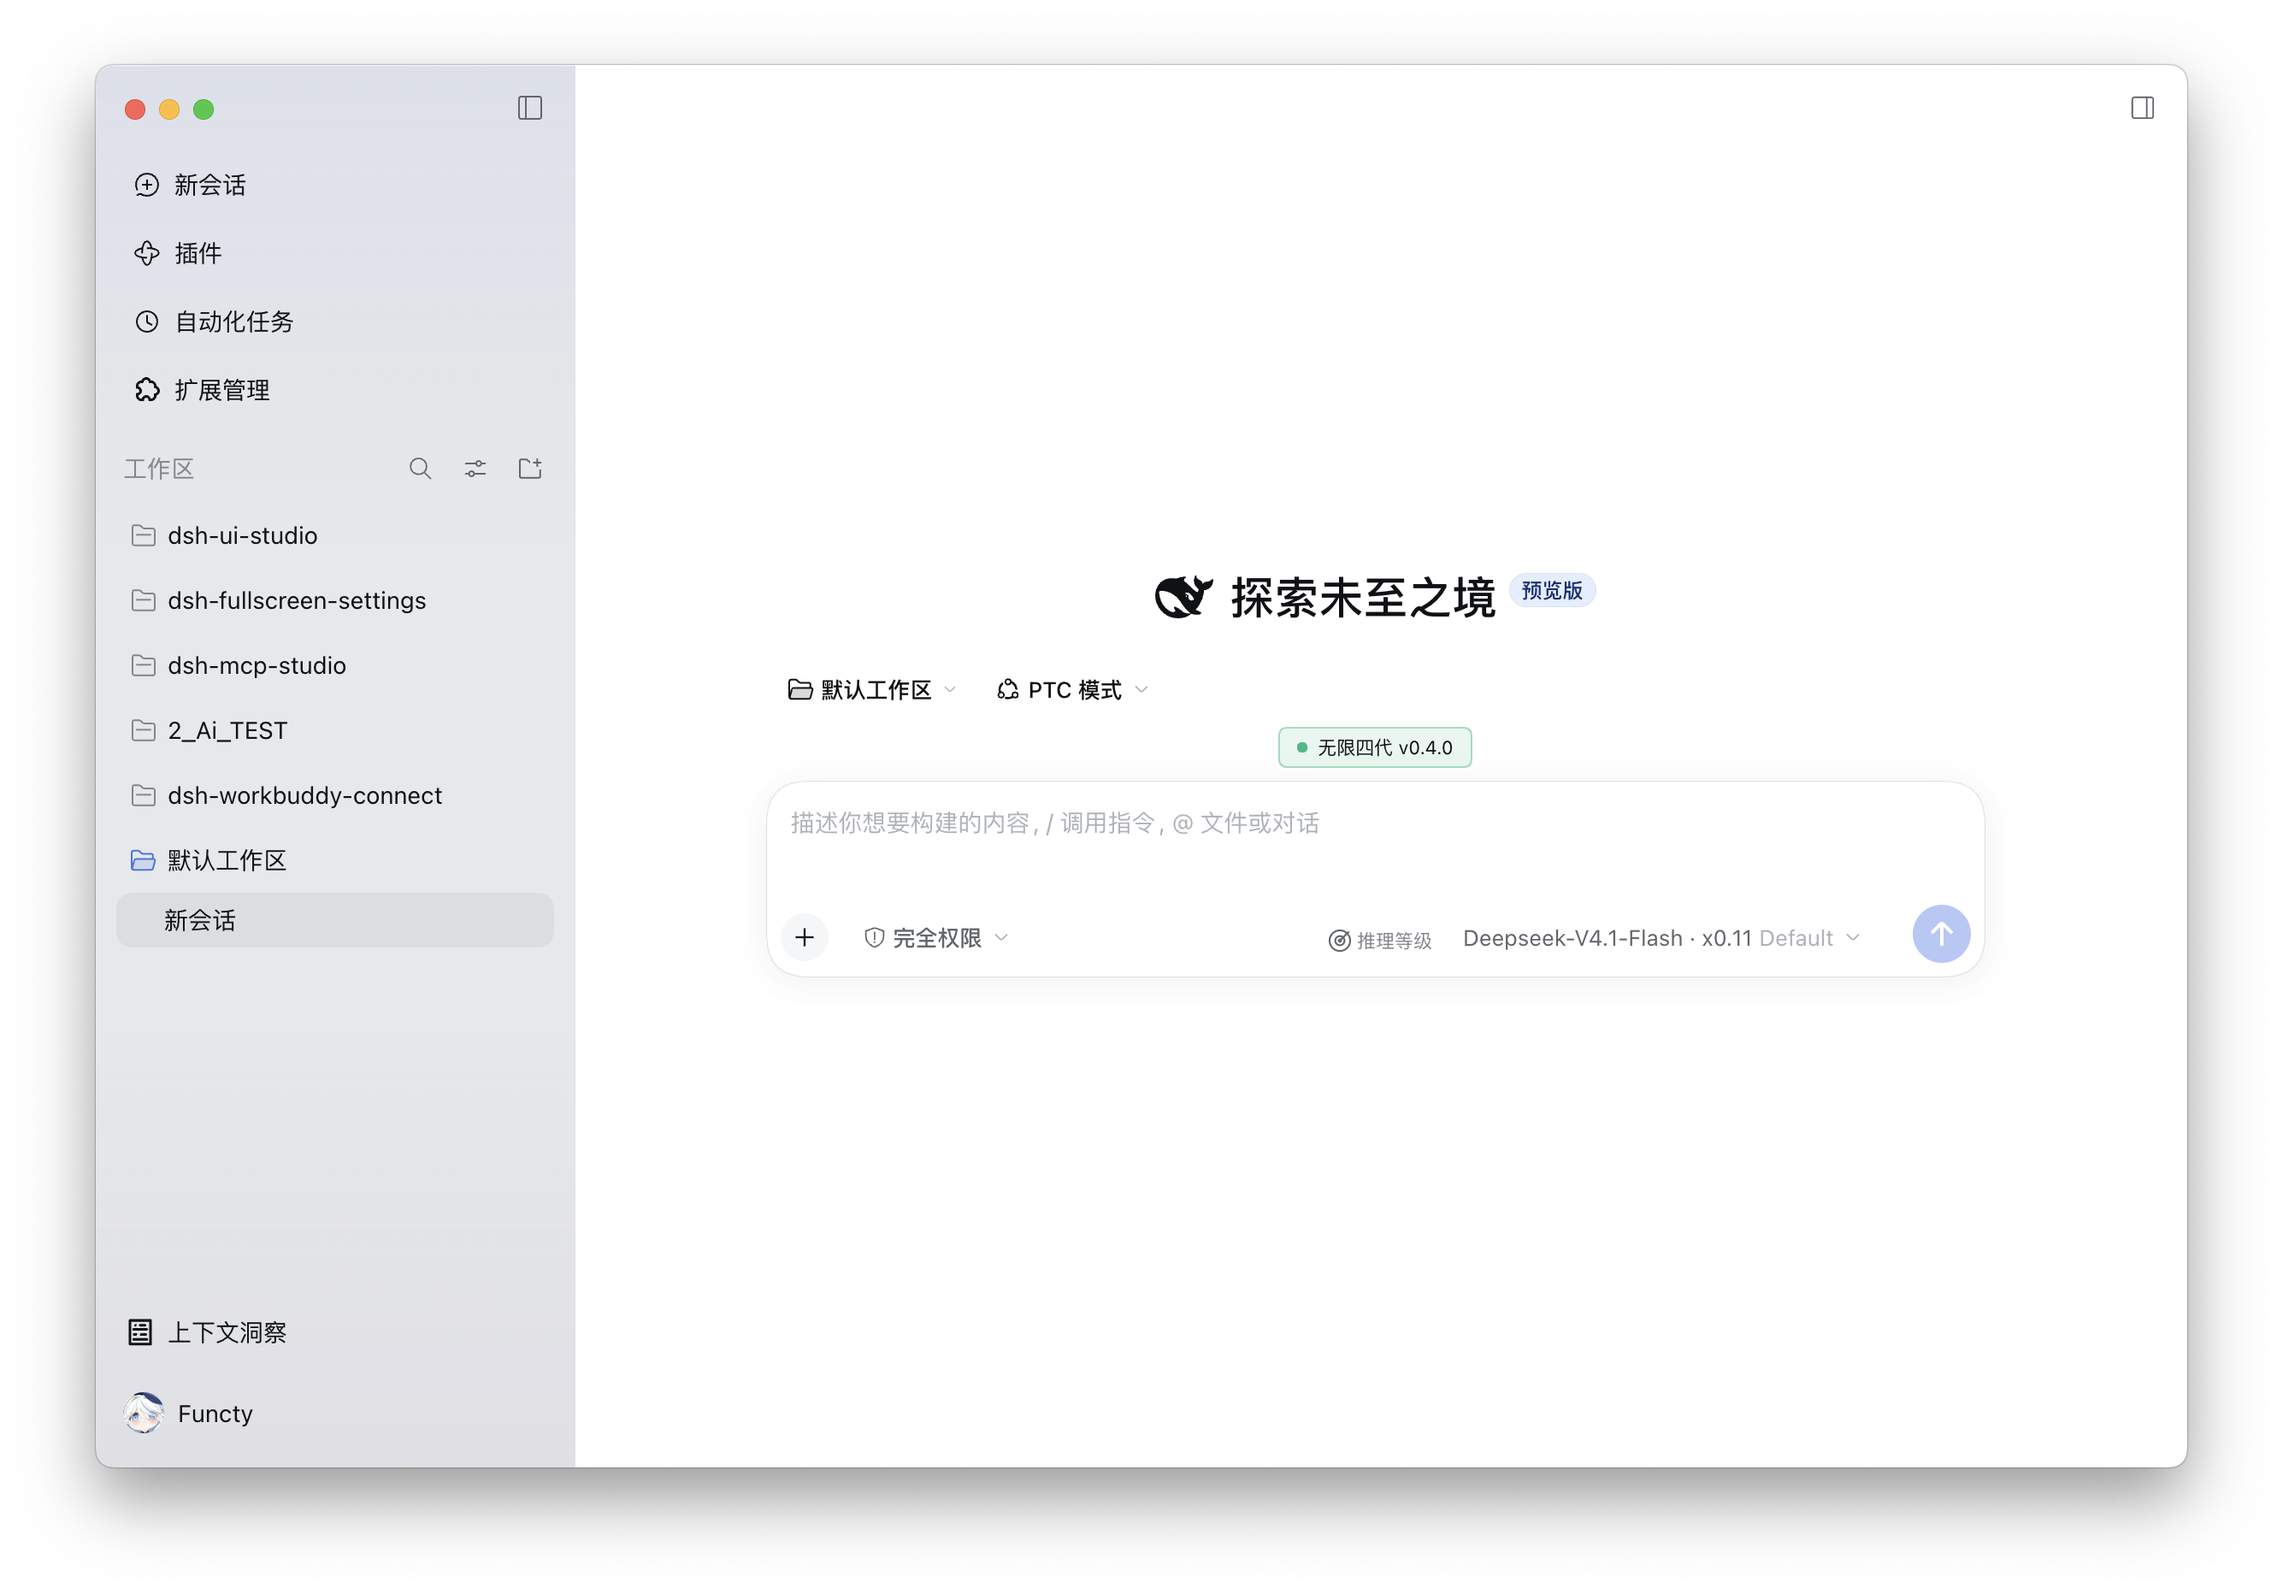
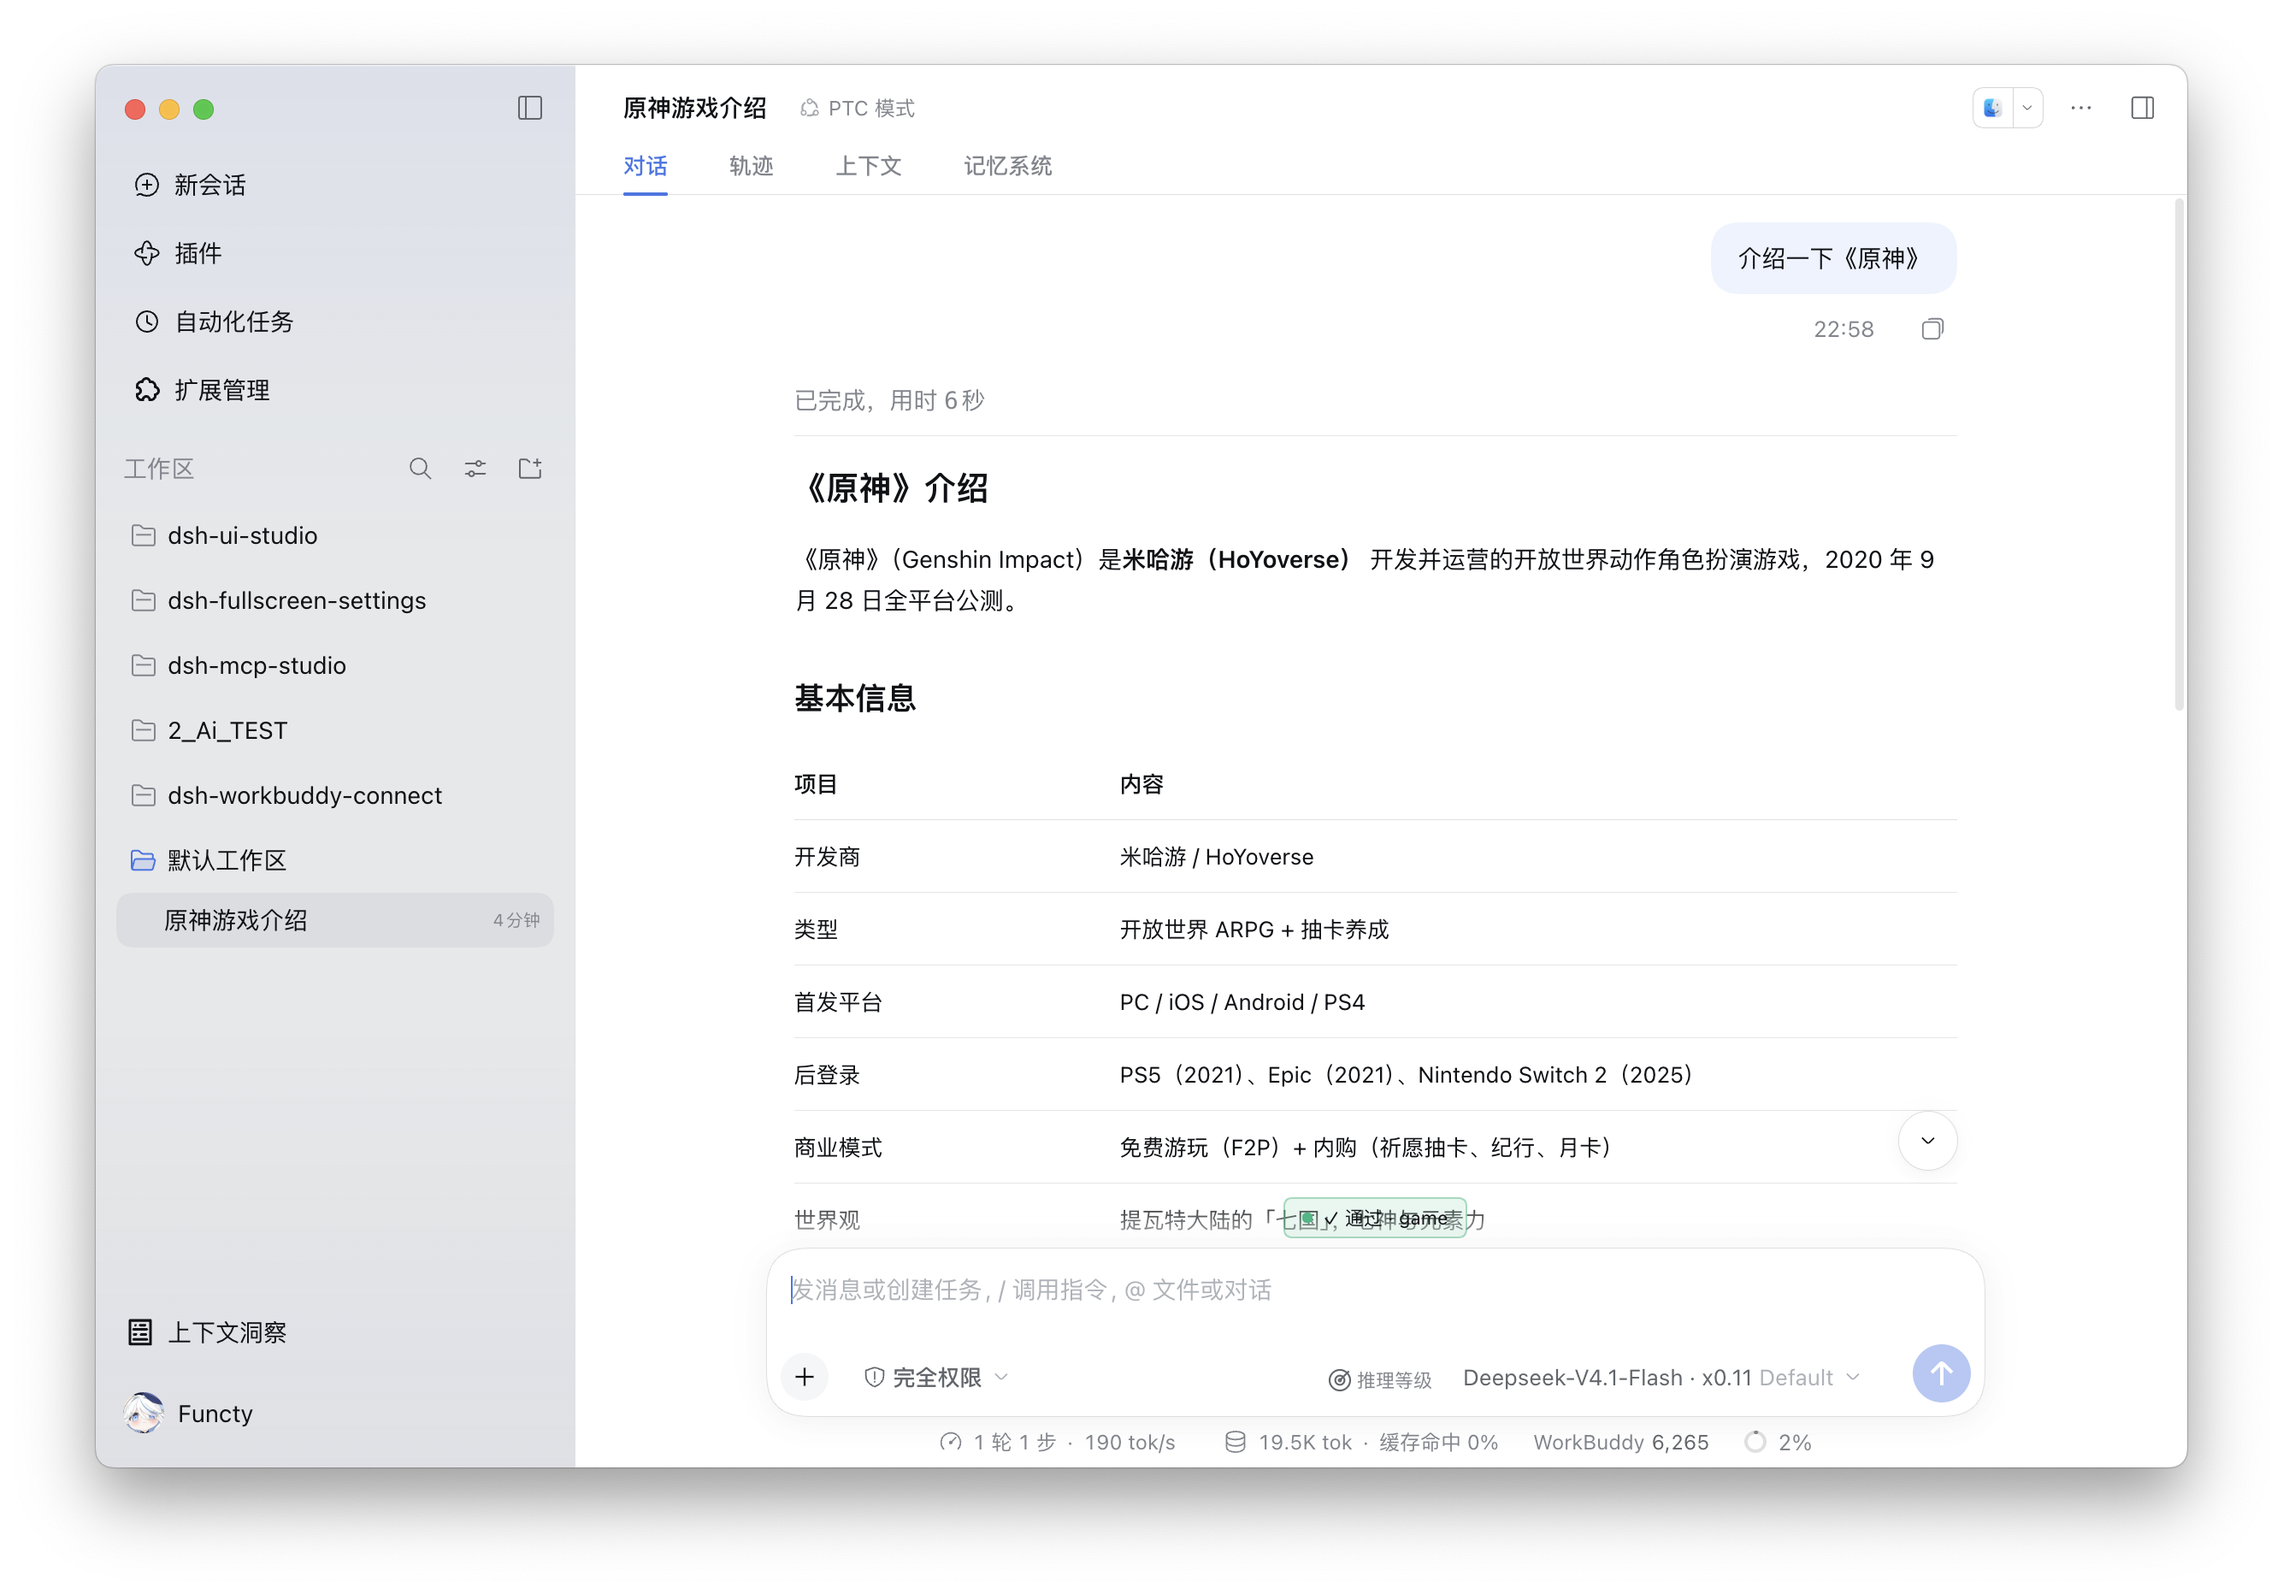
docs: drop TUI from the README and replace the chat screenshot
The plugin is not supported on TUI, so the install commands and the
verified-on list no longer mention it. The first screenshot is the
2026-10-01 chat capture with usage and credit on the status bar.

diff --git a/README.en.md b/README.en.md
@@ -45,9 +45,9 @@ Both trees have: CN/AI groups, image input, reasoning-effort detection, per-acco
 
 ## Screenshots
 
-WorkBuddy models in chat (credit card at the foot of the sidebar):
+WorkBuddy models in chat (rate and reasoning level in the composer, usage and credit on the status bar):
 
-<img src="assets/chat.png" width="1000" alt="Composer on a WorkBuddy model, sidebar credit card at the bottom">
+<img src="assets/chat.png" width="1000" alt="Chat using a WorkBuddy model, with usage and credit on the status bar">
 
 Picker groups WorkBuddy / WorkBuddy AI, with rates and free badges:
 
@@ -101,7 +101,7 @@ github:functy23/dsh-workbuddy-connect-functy
 
 ### From the CLI
 
-Replace `<profile>` with the profile you use (`web` / `desktop` / `dsh-tui`).
+Replace `<profile>` with the profile you use (`web` / `desktop`).
 
 From npm (recommended):
 
@@ -124,12 +124,6 @@ dsh web
 ```sh
 # Desktop (DSH 0.2+ lets the CLI manage the desktop profile)
 dsh plugin --profile desktop add dsh-workbuddy-connect-functy
-```
-
-```sh
-# TUI (terminal UI package 0.10.0-beta.5 or newer; older builds throw `events is not iterable`)
-dsh plugin --profile dsh-tui add dsh-workbuddy-connect-functy
-dsh --profile dsh-tui
 ```
 
 Before DSH 0.2 the CLI refused the `desktop` profile — use the UI path above. A wrapped desktop app (e.g. DSH NEXT) exposes CLI through its bundled `desktop-cli`, which needs `pnpm` on PATH.
@@ -158,7 +152,7 @@ CN by default; add `--provider workbuddy-ai` for the international product. `acc
 
 ## Known limitations
 
-- Verified on macOS Web / Desktop / TUI (DSH `0.1.7-alpha.1` / `0.2.0-rc.1` / `0.2.0-rc.2`, Node 22+). Windows probes Local then Roaming AppData; WSL reads the mounted Windows profile first. If user names differ, set `WORKBUDDY_AUTH_FILE` / `WORKBUDDY_AI_AUTH_FILE`.
+- Verified on macOS Web / Desktop (DSH `0.1.7-alpha.1` / `0.2.0-rc.1` / `0.2.0-rc.2`, Node 22+). Windows probes Local then Roaming AppData; WSL reads the mounted Windows profile first. If user names differ, set `WORKBUDDY_AUTH_FILE` / `WORKBUDDY_AI_AUTH_FILE`.
 - Sidebar display preferences need a host that can write settings; missing fields mean no switch is drawn.
 - The international catalog comes from the app's own interface and can break; the plugin then degrades to the last successful catalog, then the built-in roster.
 - International enterprise billing is unverified; a product with no credential no longer shows a model group.

diff --git a/README.md b/README.md
@@ -45,9 +45,9 @@
 
 ## 展示
 
-对话里直接用 WorkBuddy 模型（侧栏底部有额度卡）：
+对话里直接用 WorkBuddy 模型（输入框显示倍率与推理档位，底栏有用量和额度）：
 
-<img src="assets/chat.png" width="1000" alt="对话输入框选用 WorkBuddy 模型，侧栏底部有额度卡">
+<img src="assets/chat.png" width="1000" alt="对话里使用 WorkBuddy 模型，底栏显示用量与额度">
 
 模型选择器按 WorkBuddy / WorkBuddy AI 分组，带倍率与免费标记：
 
@@ -101,7 +101,7 @@ github:functy23/dsh-workbuddy-connect-functy
 
 ### 从命令行安装
 
-把 `<profile>` 换成实际 profile（`web` / `desktop` / `dsh-tui`）。
+把 `<profile>` 换成实际 profile（`web` / `desktop`）。
 
 从 npm（推荐）：
 
@@ -124,12 +124,6 @@ dsh web
 ```sh
 # Desktop（DSH 0.2+ 才让 CLI 管 desktop profile）
 dsh plugin --profile desktop add dsh-workbuddy-connect-functy
-```
-
-```sh
-# TUI（终端界面插件需 0.10.0-beta.5 及以上，更早会 `events is not iterable`）
-dsh plugin --profile dsh-tui add dsh-workbuddy-connect-functy
-dsh --profile dsh-tui
 ```
 
 DSH 0.2 之前 CLI 不接受 `desktop` profile，请走上面的界面安装。套壳桌面 App（如 DSH NEXT）的 CLI 入口是自带的 `desktop-cli`，它要求 PATH 上有 `pnpm`。
@@ -158,7 +152,7 @@ dsh plugin --profile <profile> exec dsh-workbuddy-connect doctor
 
 ## 已知限制
 
-- 在 macOS 的 Web / Desktop / TUI 下验证过（DSH `0.1.7-alpha.1` / `0.2.0-rc.1` / `0.2.0-rc.2`，Node 22+）。Windows 依次探 Local 与 Roaming AppData；WSL 优先读挂载的 Windows 用户目录。用户名不一致时用 `WORKBUDDY_AUTH_FILE` / `WORKBUDDY_AI_AUTH_FILE`。
+- 在 macOS 的 Web / Desktop 下验证过（DSH `0.1.7-alpha.1` / `0.2.0-rc.1` / `0.2.0-rc.2`，Node 22+）。Windows 依次探 Local 与 Roaming AppData；WSL 优先读挂载的 Windows 用户目录。用户名不一致时用 `WORKBUDDY_AUTH_FILE` / `WORKBUDDY_AI_AUTH_FILE`。
 - 侧栏两个显示偏好要宿主能写设置；状态文档没有对应字段时，设置页不画开关。
 - 国际版模型目录来自 App 界面接口，属私有实现，可能失效；届时按「本账号上次成功目录 → 内置目录」降级。
 - 国际版企业计费未验证；无凭据时该版模型分组不再显示。
